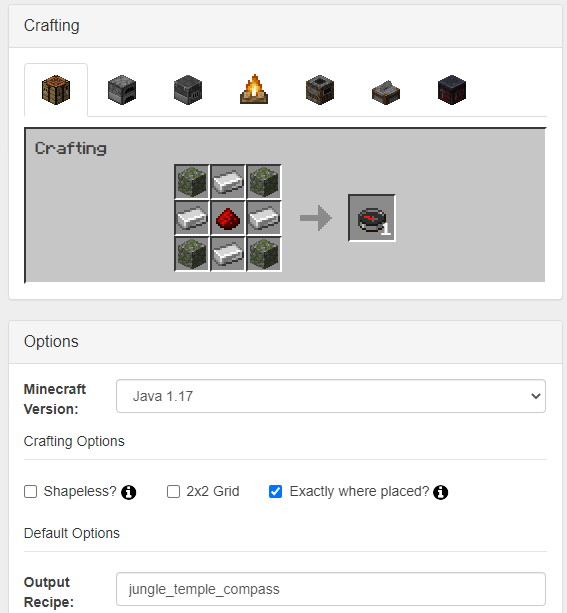
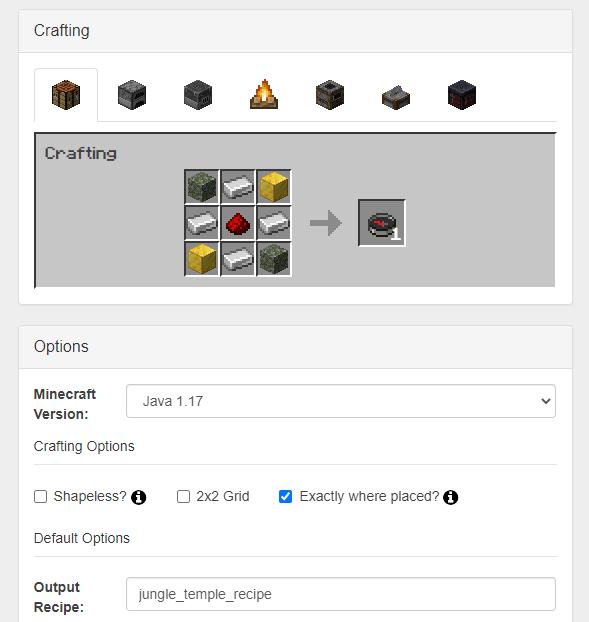
Change jungle temple receipe

diff --git a/src/main/java/uk/bethan/compassesPlugin/compasses/JungleTemplesCompass.java b/src/main/java/uk/bethan/compassesPlugin/compasses/JungleTemplesCompass.java
@@ -16,11 +16,12 @@ public class JungleTemplesCompass implements Compass {
 
         ShapedRecipe jungleTempleCompassRecipe = new ShapedRecipe(key, getItem());
 
-        jungleTempleCompassRecipe.shape("MIM", "IRI", "MIM");
+        jungleTempleCompassRecipe.shape("MIB", "IRI", "BIM");
 
         jungleTempleCompassRecipe.setIngredient('I', Material.IRON_INGOT);
         jungleTempleCompassRecipe.setIngredient('R', Material.REDSTONE);
         jungleTempleCompassRecipe.setIngredient('M', Material.MOSSY_COBBLESTONE);
+        jungleTempleCompassRecipe.setIngredient('B', Material.GOLD_BLOCK);
 
         CompassesPlugin.plugin.getServer().addRecipe(jungleTempleCompassRecipe);
     }
